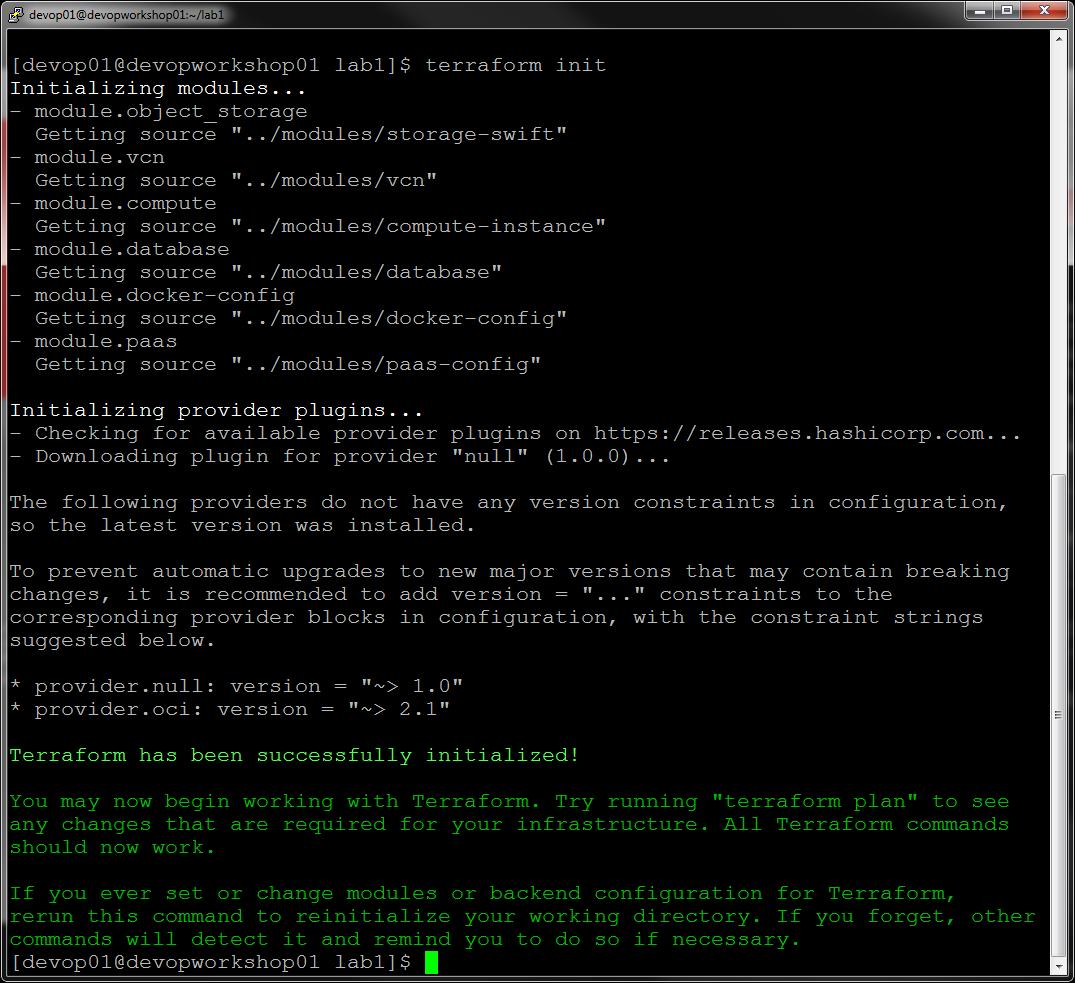
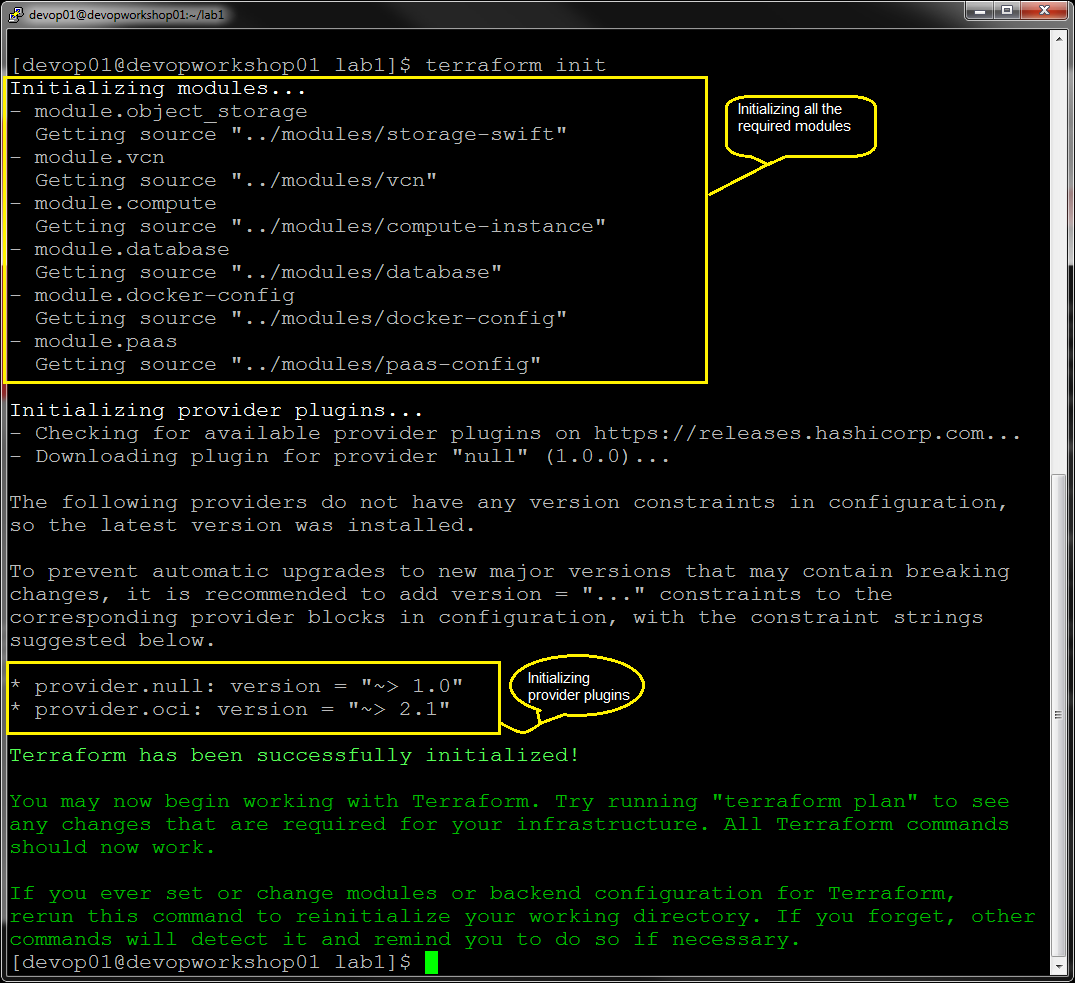
added comments to screenshots for lab1

diff --git a/workshops/environment-automation/LabGuide101.md b/workshops/environment-automation/LabGuide101.md
@@ -69,7 +69,7 @@ vi env-var.gse
 
 ![](images/101/7.png)
 
-* You will now go to next step to find the information needed to set the environment file
+* You will now go to next step to find your cloud account information needed to fill in the values for the environment variables inside the yellow rectangle sections and set this environment file
 
 
 ### Alternate Intructions to use SSH
@@ -78,7 +78,7 @@ vi env-var.gse
 ```
 ssh -i <private_key_file> <username>@<public_ip>
 ```
-* You will now go to next step to find the information needed to set the environment file
+* You will now go to next step to find your cloud account information needed to fill in the values for the environment variables inside the yellow rectangle sections and set this environment file
 
 ### **STEP 2**: Login into Cloud Service Dashboard
 
@@ -118,7 +118,7 @@ ssh -i <private_key_file> <username>@<public_ip>
 
 - Enter the swift password provided by instructor in TF_VAR_swift_password. 
 
-- Save the env-var.gse by pressing **Shift-Z-Z**.  Here’s an example of env-var.gse: 
+- Save the env-var.gse by pressing **Shift-Z-Z**.  Here’s an example of env-var.gse with the environment variable values filled in: 
 
 ![](images/101/16.png)
 
@@ -205,6 +205,7 @@ $ terraform plan -out plan.out
 
   
   
+You can also open another putty or ssh window to the workshop vm and review the terraform templates in both the lab1 and modules directory in detail.
   
   
   
